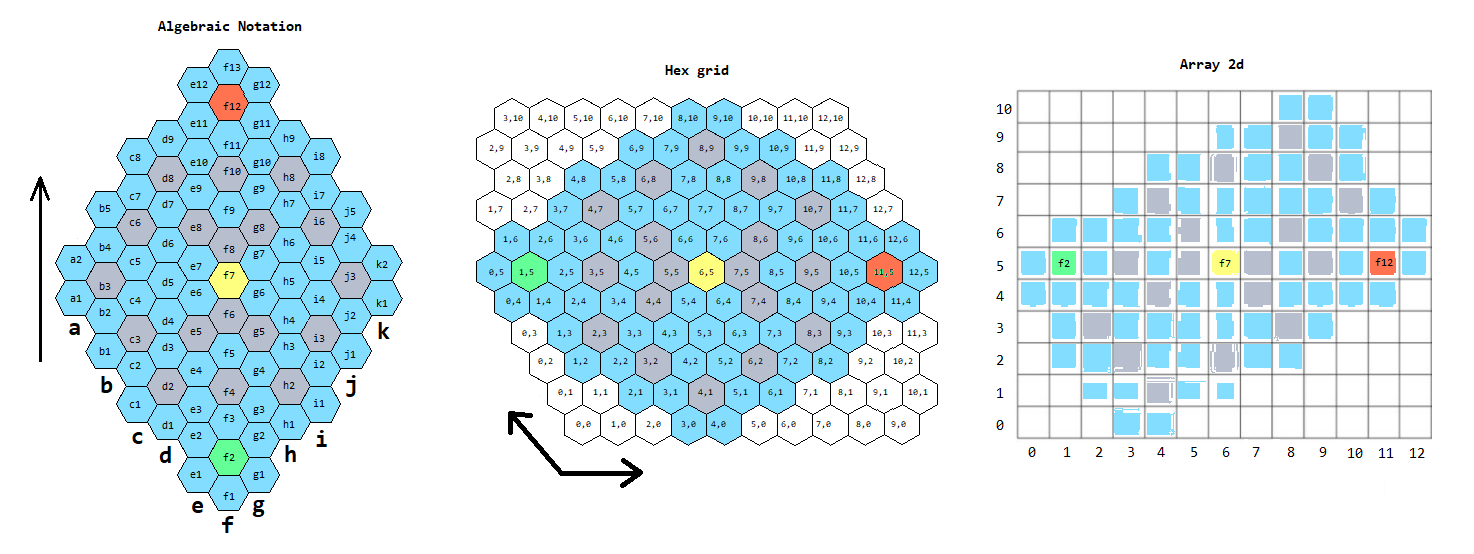
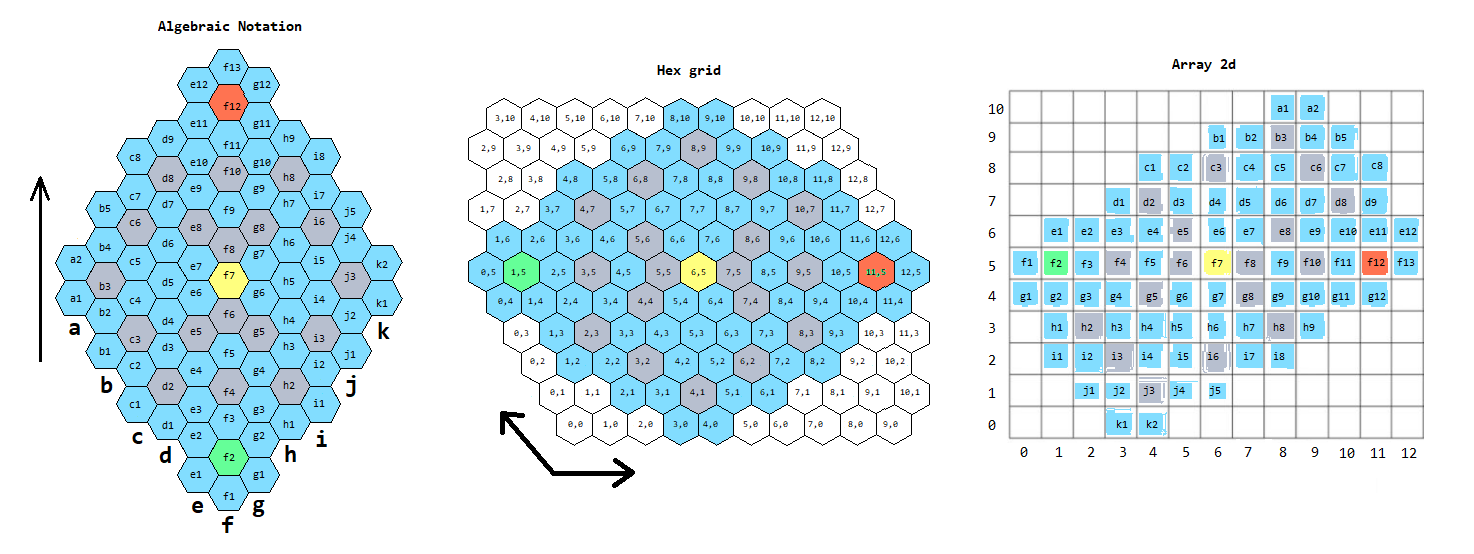
Captan and Ship Movement

Changed region(s): [[0.3121, 0.1534, 0.9674, 0.8899], [0.7802, 0.0921, 0.8426, 0.1227], [0.4369, 0.1227, 0.4993, 0.1534]]

diff --git a/Assets/Scripts/GameManager.cs b/Assets/Scripts/GameManager.cs
@@ -1,58 +1,55 @@
-using UnityEngine;
+using System.Collections;
+using UnityEngine;
 
 public class GameManager : MonoBehaviour
 {
-    private static GameObject field, piece;
-    private Color fieldColor;
+    private static GameObject piece;
     private bool isGreenTurn = true;
+    private ArrayList possibleMoves = new ArrayList();
+    private ArrayList fieldColors = new ArrayList();
+    private string[,] board = {{ null,null, null, null, null, null, null, null, null, null, null, null, null }, //the board has an extra line each side
+                               { null, null, null, null, null, "g1", "f1", null, null, null, null, null, null },
+                               { null, null, null, "i1", "h1", "g2", "f2", "e1", null, null, null, null, null },
+                               { null, null, "j1", "i2", "h2", "g3", "f3", "e2", null, null, null, null, null },
+                               { null, "k1", "j2", "i3", "h3", "g4", "f4", "e3", "d1", null, null, null, null },
+                               { null, "k2", "j3", "i4", "h4", "g5", "f5", "e4", "d2", "c1", null, null, null },
+                               { null, null, "j4", "i5", "h5", "g6", "f6", "e5", "d3", "c2", null, null, null },
+                               { null, null, "j5", "i6", "h6", "g7", "f7", "e6", "d4", "c3", "b1", null, null },
+                               { null, null, null, "i7", "h7", "g8", "f8", "e7", "d5", "c4", "b2", null, null },
+                               { null, null, null, "i8", "h8", "g9", "f9", "e8", "d6", "c5", "b3", "a1", null },
+                               { null, null, null, null, "h9", "g10", "f10", "e9", "d7", "c6", "b4", "a2", null },
+                               { null, null, null, null, null, "g11", "f11", "e10", "d8", "c7", "b5", null, null },
+                               { null, null, null, null, null, "g12", "f12", "e11", "d9", "c8", null, null, null },
+                               { null, null, null, null, null, null, "f13", "e12", null, null, null, null, null },
+                               { null, null, null, null, null, null, null, null, null, null, null, null, null },};
 
-    private void Start()
-    {
-        field = GameObject.Find("a1");
-        fieldColor = field.GetComponent<MeshRenderer>().material.color;
-    }
-
-    //loops every frame
     void Update()
     {
         MouseOver();
+        //highlight pieces allowed to move
     }
 
     private void MouseOver()
     {
-        //Repaint last saved field
-        field.GetComponent<MeshRenderer>().material.color = fieldColor;
-
-        //If ray at the mouse position is hitting a field on the board
+        //If ray casted from screen to the direction of mouse position (or touch) is hitting a field on the board
         if (Physics.Raycast(Camera.main.ScreenPointToRay(Input.mousePosition), out RaycastHit hitInfo, 25.0f, LayerMask.GetMask("Board")))
         {
-            HighlightField(hitInfo, Color.white);
             SelectOnTurn(hitInfo, isGreenTurn);
             MovePiece(hitInfo);
         }
 
-        void HighlightField(RaycastHit hittenFieldInfo, Color color)
-        {
-            //Save field
-            field = hittenFieldInfo.transform.gameObject;
-            //Save field Color
-            fieldColor = field.GetComponent<MeshRenderer>().material.color;
-            //Highlight (paint in the color)
-            field.GetComponent<MeshRenderer>().material.color = color;
-        }
-
         void SelectOnTurn(RaycastHit hittenFieldInfo, bool isGreenTurn)
         {
-            //If hitten field has a Child (a Piece)
-            if (hittenFieldInfo.transform.childCount > 0)
+            //If hitten field has a Child (a Piece) and its not an Item
+            if (hittenFieldInfo.transform.childCount > 0 && hittenFieldInfo.transform.GetChild(0).tag != "Item")
             {
                 //If its green turn and piece is green
-                if (isGreenTurn && hittenFieldInfo.transform.GetChild(0).gameObject.tag == "Green")
+                if (isGreenTurn && hittenFieldInfo.transform.GetChild(0).gameObject.GetComponent<Pieces>().isGreen)
                 {
                     SelectPiece(hittenFieldInfo);
 
                 }//If its red turn and piece is red
-                else if (!isGreenTurn && hittenFieldInfo.transform.GetChild(0).gameObject.tag != "Green")
+                else if (!isGreenTurn && !hittenFieldInfo.transform.GetChild(0).gameObject.GetComponent<Pieces>().isGreen)
                 {
                     SelectPiece(hittenFieldInfo);
                 }
@@ -67,7 +64,31 @@ public class GameManager : MonoBehaviour
                 //Select Piece
                 piece = hittenFieldInfo.transform.GetChild(0).gameObject;
 
+                HighlightPossibleMoves(piece, hittenFieldInfo, Color.magenta);
+
                 Debug.Log("Selected: " + piece.name + " at: " + hittenFieldInfo.transform.name);
+            }
+        }
+
+        void HighlightPossibleMoves(GameObject piece, RaycastHit hittenFieldInfo, Color color)
+        {
+            //Repaint last fields
+            for (int i = 0; i < possibleMoves.Count; i++)
+                GameObject.Find((string) possibleMoves[i]).GetComponent<MeshRenderer>().material.color = (Color) fieldColors[i];
+
+            //Clear fields
+            possibleMoves.Clear();
+            fieldColors.Clear();
+
+            //Set possibleMoves
+            possibleMoves = piece.GetComponent<Pieces>().PossibleMoves(board, hittenFieldInfo.transform.name);
+
+            for (int i = 0; i < possibleMoves.Count; i++)
+            {
+                //save standart color of each field
+                fieldColors.Add(GameObject.Find((string) possibleMoves[i]).GetComponent<MeshRenderer>().material.color);
+                //highlight
+                GameObject.Find((string) possibleMoves[i]).GetComponent<MeshRenderer>().material.color = color;
             }
         }
 
@@ -77,27 +98,41 @@ public class GameManager : MonoBehaviour
             if(piece != null)
             {
                 //If hitten field has no piece
-               if (hittenFieldInfo.transform.childCount == 0)
+                if (hittenFieldInfo.transform.childCount == 0)
                 {
-                    //On left click
-                    if (Input.GetMouseButtonDown(0))
+                    //if hitten field is a possible move
+                    if (possibleMoves.Contains(hittenFieldInfo.transform.name))
                     {
-                        //Move to field
-                        piece.transform.position = hittenFieldInfo.transform.position;
-                        //Set piece to be child of the clicked field
-                        piece.transform.SetParent(hittenFieldInfo.transform);
+                        //On left click
+                        if (Input.GetMouseButtonDown(0))
+                        {
+                            //Move to field
+                            piece.transform.position = hittenFieldInfo.transform.position;
+                            //Set piece to be child of the clicked field
+                            piece.transform.SetParent(hittenFieldInfo.transform);
 
-                        Debug.Log("Moved: " + piece.name + " to: " + hittenFieldInfo.transform.name);
+                            Debug.Log("Moved: " + piece.name + " to: " + hittenFieldInfo.transform.name);
 
-                        //Unselect piece
-                        piece = null;
-                        //Change turn
-                        isGreenTurn = isGreenTurn ? false : true;
+                            //Unselect piece
+                            piece = null;
+                            //Change turn
+                            isGreenTurn = isGreenTurn ? false : true;
 
-                        Debug.Log("Green Turn: "+ isGreenTurn);
+                            UnHighlightPossibleMoves();
+
+                            //Debug.Log("Green Turn: "+ isGreenTurn);
+
+                        }
                     }
                 }
             }
+        }
+
+        void UnHighlightPossibleMoves()
+        {
+            //Repaint last fields
+            for (int i = 0; i < possibleMoves.Count; i++)
+                GameObject.Find(possibleMoves[i].ToString()).GetComponent<MeshRenderer>().material.color = (Color) fieldColors[i];
         }
     }
 }

diff --git a/Assets/Scripts/Ship.cs b/Assets/Scripts/Ship.cs
@@ -1,15 +1,78 @@
-
+using System.Collections;
+
 public class Ship : Pieces
 {
-    // Start is called before the first frame update
-    void Start()
+    private ArrayList possibleMoves = new ArrayList();
+    private ArrayList impossibleMovesForShip = new ArrayList();
+    
+    public override ArrayList PossibleMoves(string[,] board, string fieldName)
     {
+        //earth fields
+        impossibleMovesForShip.Add("f2");
+        impossibleMovesForShip.Add("d2");
+        impossibleMovesForShip.Add("f4");
+        impossibleMovesForShip.Add("h2");
+        impossibleMovesForShip.Add("c3");
+        impossibleMovesForShip.Add("e5");
+        impossibleMovesForShip.Add("f6");
+        impossibleMovesForShip.Add("g5");
+        impossibleMovesForShip.Add("i3");
+        impossibleMovesForShip.Add("b3");
+        impossibleMovesForShip.Add("f7");
+        impossibleMovesForShip.Add("j3");
+        impossibleMovesForShip.Add("c6");
+        impossibleMovesForShip.Add("e8");
+        impossibleMovesForShip.Add("f8");
+        impossibleMovesForShip.Add("g8");
+        impossibleMovesForShip.Add("i6");
+        impossibleMovesForShip.Add("d8");
+        impossibleMovesForShip.Add("f10");
+        impossibleMovesForShip.Add("h8");
+        impossibleMovesForShip.Add("f12");
+
+        FindNeighbors(board, fieldName);
         
+        int firstNeighborsCount = possibleMoves.Count; //if we use 'possibleMoves.Count' to set the loop limit, it'll loop forever
+
+        for (int i = 0; i < firstNeighborsCount; i++)
+        {
+            FindNeighbors(board, possibleMoves[i].ToString());
+        }
+
+        possibleMoves.Remove(fieldName);
+
+        return possibleMoves;
     }
 
-    // Update is called once per frame
-    void Update()
+    private void FindNeighbors(string[,] board, string fieldName)
     {
-        
+        for (int i = 0; i<board.GetLength(0); i++)
+        {
+            for (int j = 0; j<board.GetLength(1); j++)
+            {
+                if (board[i, j] == fieldName)
+                {
+                    if (board[i, j + 1] != null && !impossibleMovesForShip.Contains(board[i, j + 1]) && !possibleMoves.Contains(board[i, j + 1]))
+                        possibleMoves.Add(board[i, j + 1]);
+
+                    if (board[i + 1, j + 1] != null && !impossibleMovesForShip.Contains(board[i + 1, j + 1]) && !possibleMoves.Contains(board[i + 1, j + 1]))
+                        possibleMoves.Add(board[i + 1, j + 1]);
+
+                    if (board[i + 1, j] != null && !impossibleMovesForShip.Contains(board[i + 1, j]) && !possibleMoves.Contains(board[i + 1, j]))
+                        possibleMoves.Add(board[i + 1, j]);
+
+                    if (board[i, j - 1] != null && !impossibleMovesForShip.Contains(board[i, j - 1]) && !possibleMoves.Contains(board[i, j - 1]))
+                        possibleMoves.Add(board[i, j - 1]);
+
+                    if (board[i - 1, j - 1] != null && !impossibleMovesForShip.Contains(board[i - 1, j - 1]) && !possibleMoves.Contains(board[i - 1, j - 1]))
+                        possibleMoves.Add(board[i - 1, j - 1]);
+
+                    if (board[i - 1, j] != null && !impossibleMovesForShip.Contains(board[i - 1, j]) && !possibleMoves.Contains(board[i - 1, j]))
+                        possibleMoves.Add(board[i - 1, j]);
+
+                    return;
+                }
+            }
+        }
     }
 }

diff --git a/Assets/Scripts/Captain.cs b/Assets/Scripts/Captain.cs
@@ -1,4 +1,5 @@
-
+using System.Collections;
+
 public class Captain : Pieces
 {
     // Start is called before the first frame update
@@ -11,5 +12,41 @@ public class Captain : Pieces
     void Update()
     {
         
+    }
+
+    public override ArrayList PossibleMoves(string[,] board, string fieldName)
+    {
+        ArrayList possibleMoves = new ArrayList();
+
+        for (int i = 0; i < board.GetLength(0); i++)
+        {
+            for (int j = 0; j < board.GetLength(1); j++)
+            {
+                if (board[i, j] == fieldName)
+                {
+                    if (board[i, j + 1] != null)
+                        possibleMoves.Add(board[i, j + 1]);
+
+                    if (board[i + 1, j + 1] != null)
+                        possibleMoves.Add(board[i + 1, j + 1]);
+
+                    if (board[i + 1, j]  != null)
+                        possibleMoves.Add(board[i + 1, j]);
+
+                    if (board[i, j - 1] != null)
+                        possibleMoves.Add(board[i, j - 1]);
+
+                    if (board[i - 1, j - 1] != null)
+                        possibleMoves.Add(board[i - 1, j - 1]);
+
+                    if (board[i - 1, j] != null)
+                        possibleMoves.Add(board[i - 1, j]);
+
+                    break;
+                }
+            }
+        }
+
+        return possibleMoves;
     }
 }

diff --git a/Assets/Scripts/Pieces.cs b/Assets/Scripts/Pieces.cs
@@ -1,8 +1,13 @@
-using UnityEngine;
+using System.Collections;
+using UnityEngine;
 
 public abstract class Pieces : MonoBehaviour
 {
-    public int CurrentX { get; set; }
-    public int CurrentY { get; set; }
     public bool isGreen;
+
+    public virtual ArrayList PossibleMoves(string[,] board, string field)
+    {
+        //hopefully never called
+        return null;
+    }
 }

diff --git a/Assets/Scripts/Flag.cs b/Assets/Scripts/Flag.cs
@@ -1,5 +1,4 @@
-
-public class Flag : Pieces
+public class Flag : Pieces
 {
     public float yRotationSpeed = -2f;
 
